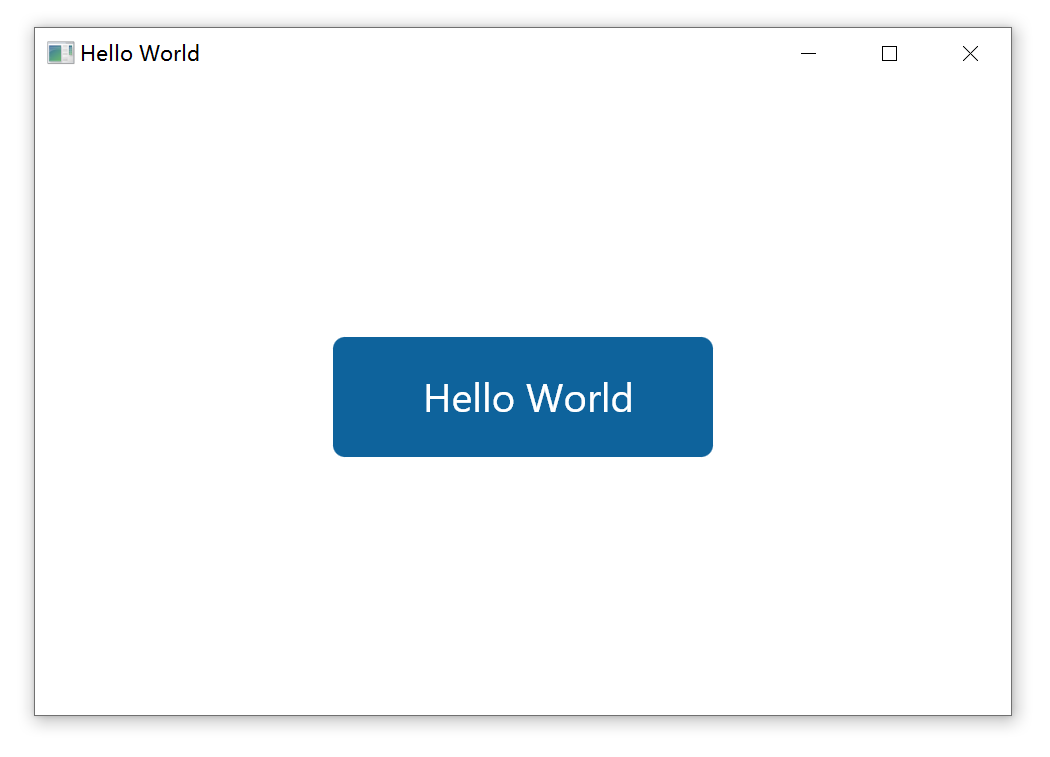
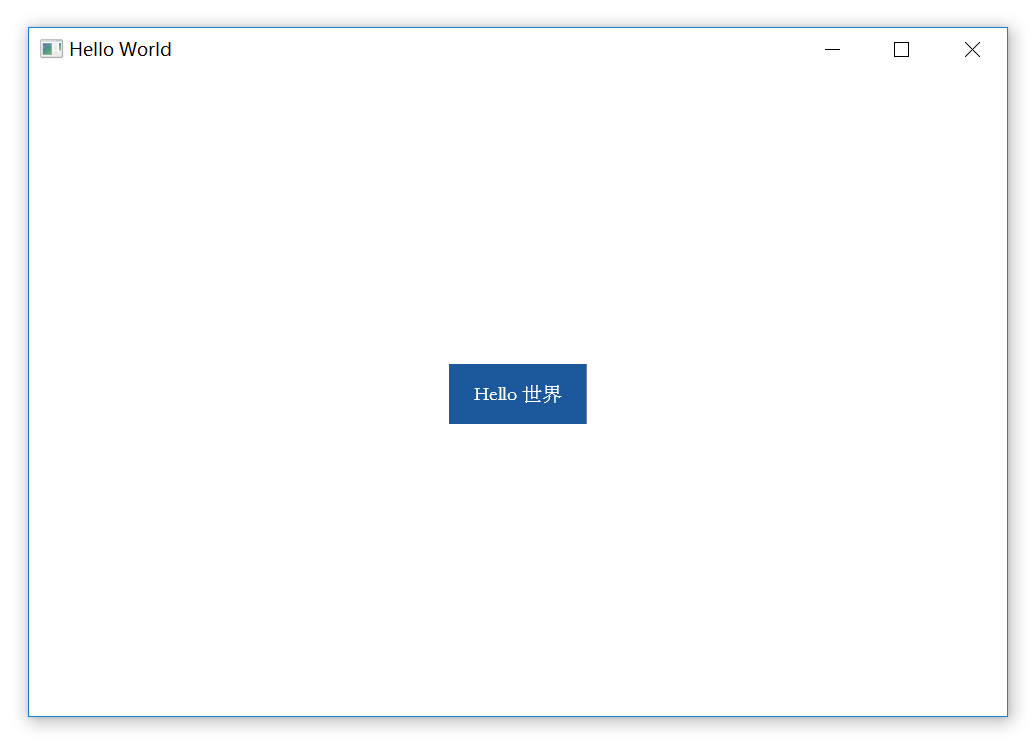
auto hover event

Changed region(s): [[0.0, 0.0307, 0.9894, 0.984], [0.3092, 0.4305, 0.6802, 0.615], [0.8348, 0.0307, 0.8966, 0.0922]]

diff --git a/RedRedStar/src/Panel.cpp b/RedRedStar/src/Panel.cpp
@@ -6,38 +6,70 @@
 
 namespace RRS {
 	Panel::Panel()
+		:backgroundColor { GetColor(255, 255, 255) }
+		,backgroundColorHover { GetColor(255, 255, 255) }
 	{
-		AddEventListener(EventType::MouseOver, [this](EventListener* arg) {
-			//InvalidateRect(OwnerWindow->Hwnd, nullptr, false);
-		});
-		AddEventListener(EventType::MouseOut, [this](EventListener* arg) {
-			//InvalidateRect(OwnerWindow->Hwnd, nullptr, false);
-		});
+
 	}
 	Panel::~Panel()
 	{
 	}
+	void Panel::regMouseHoverEvent()
+	{
+		if (backgroundColor != backgroundColorHover && hoverId == -1 && hoverOffId == -1) {
+			hoverId = AddEventListener(EventType::MouseOver, [this](EventListener* arg) {
+				InvalidateRect(this->GetOwnerWindow()->Hwnd, nullptr, false);
+				});
+			hoverOffId = AddEventListener(EventType::MouseOut, [this](EventListener* arg) {
+				InvalidateRect(this->GetOwnerWindow()->Hwnd, nullptr, false);
+				});
+		}
+		if (backgroundColor == backgroundColorHover && hoverId != -1 && hoverOffId != -1)
+		{
+			RemoveEventListener(EventType::MouseOver, hoverId);
+			RemoveEventListener(EventType::MouseOver, hoverOffId);
+			hoverId = -1;
+			hoverOffId = -1;
+		}
+	}
 	void Panel::SetBackgroundColor(Color color)
 	{
-		if (backgroundColor != color) {
+		if (backgroundColor != color) 
+		{
 			backgroundColor = color;
+			regMouseHoverEvent();
 		}
+		
 	}
 	void Panel::SetBackgroundColorHover(Color color)
 	{
 		if (backgroundColorHover != color) 
 		{
 			backgroundColorHover = color;
+			regMouseHoverEvent();
 		}
+	}
+
+	void Panel::SetBorderRadius(float borderRadius)
+	{
+		this->borderRadius = borderRadius;
 	}
 	void Panel::Paint(SkCanvas* canvas)
 	{
 		calculatePosition();
 		SkPaint paint;
+		paint.setAntiAlias(true);
 		paint.setColor(GetIsMouseEnter()?backgroundColor:backgroundColorHover);
 		paint.setStrokeJoin(SkPaint::Join::kRound_Join);
 		SkRect rect = SkRect::MakeXYWH(xAbsolute, yAbsolute, GetWidth(), GetHeight());
-		canvas->drawRoundRect(rect, 12.0, 12.0, paint);
+		if (borderRadius != 0.f) {
+			canvas->drawRoundRect(rect, borderRadius, borderRadius, paint);
+		}
+		else
+		{
+			canvas->drawRect(rect, paint);
+		}
+		
 		for (auto element : children)
 		{
 			element->Paint(canvas);

diff --git a/RedRedStar/src/Label.cpp b/RedRedStar/src/Label.cpp
@@ -1,25 +1,32 @@
 #include "include/core/SkFont.h"
 #include "include/core/SkCanvas.h"
+#include "include/core/SkFontMgr.h"
 #include "../include/RRS/Label.h"
 #include "../include/RRS/Layout.h"
 #include "modules/skparagraph/include/TextStyle.h"
 namespace RRS {
-	Label::Label(const char* text):Text {text},font{new SkFont(nullptr,40)}
-	{
-		SkRect rect;
-		SkString str{ Text };
-		font->measureText(Text, strlen(Text), SkTextEncoding::kUTF8, &rect);
-		font->setSubpixel(true);
-		advanceX = rect.x();
-		advanceY = -rect.y();
-		SetSize(rect.width(), rect.height());
-	}
-	void Label::Paint(SkCanvas* canvas)
-	{
-		calculatePosition();
-		SkPaint paint;
-		paint.setColor(SK_ColorBLACK);
-		//paint.setAntiAlias(true);
-		canvas->drawString(Text, xAbsolute+advanceX, yAbsolute+advanceY, *font, paint);
-	}
+Label::Label(std::wstring&& text)
+	:Text {text}
+	,font{new SkFont(SkTypeface::MakeFromName("STSong", SkFontStyle::Normal()),20)} //Microsoft Yahei
+	,fontColor { GetColor(0, 0, 0) }
+{
+	SkRect rect;
+	font->measureText(Text.data(), wcslen(Text.data()) * 2, SkTextEncoding::kUTF16, &rect); //strlen(Text)
+	advanceX = rect.x();
+	advanceY = -rect.y();
+	SetSize(rect.width(), rect.height());
+}
+void Label::SetFontColor(Color fontColor)
+{
+	this->fontColor = fontColor;
+}
+void Label::Paint(SkCanvas* canvas)
+{
+	calculatePosition();
+	SkPaint paint;
+	paint.setColor(fontColor);
+	paint.setAntiAlias(true);
+	//canvas->drawString(SkString{ Text }, xAbsolute + advanceX, yAbsolute + advanceY, *font, paint);		
+	canvas->drawSimpleText(Text.data(), wcslen(Text.data()) * 2, SkTextEncoding::kUTF16, xAbsolute + advanceX, yAbsolute + advanceY, *font, paint);
+}
 }

diff --git a/RedRedStar/include/RRS/Panel.h b/RedRedStar/include/RRS/Panel.h
@@ -16,9 +16,14 @@ namespace RRS {
 		void AddChildElement(std::shared_ptr<Element> element);
 		void SetBackgroundColor(Color color);
 		void SetBackgroundColorHover(Color color);
+		void SetBorderRadius(float borderRadius);
 	private:
+		void regMouseHoverEvent();
+		int hoverId=-1;
+		int hoverOffId = -1;
 		Color backgroundColor;
 		Color backgroundColorHover;
+		float borderRadius = 0.f;
 		/// <summary>
 		/// 
 		/// </summary>

diff --git a/RedRedStar/include/RRS/Label.h b/RedRedStar/include/RRS/Label.h
@@ -1,14 +1,17 @@
 #pragma once
 #include "Element.h"
+#include <string>
 class SkFont;
 namespace RRS {
 	class Label:public Element
 	{
 		public:
-			Label(const char* text);
+			Label(std::wstring&& text);
 			void Paint(SkCanvas* canvas) override;
-			const char* Text;
+			void SetFontColor(Color fontColor);
+			std::wstring Text;
 	private:
+		Color fontColor;
 		SkFont* font;
 		float advanceX;
 		float advanceY;

diff --git a/RedRedStar/include/RRS/CommonType.h b/RedRedStar/include/RRS/CommonType.h
@@ -22,6 +22,7 @@ namespace RRS {
 		Resize,
 		Focs,
 		Blur,
+		Click,
 		/// <summary>
 		/// 
 		/// </summary>
